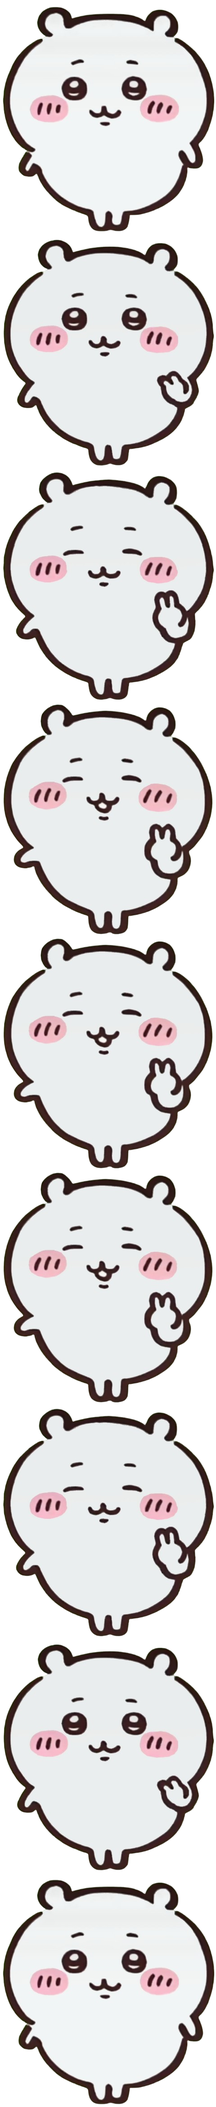
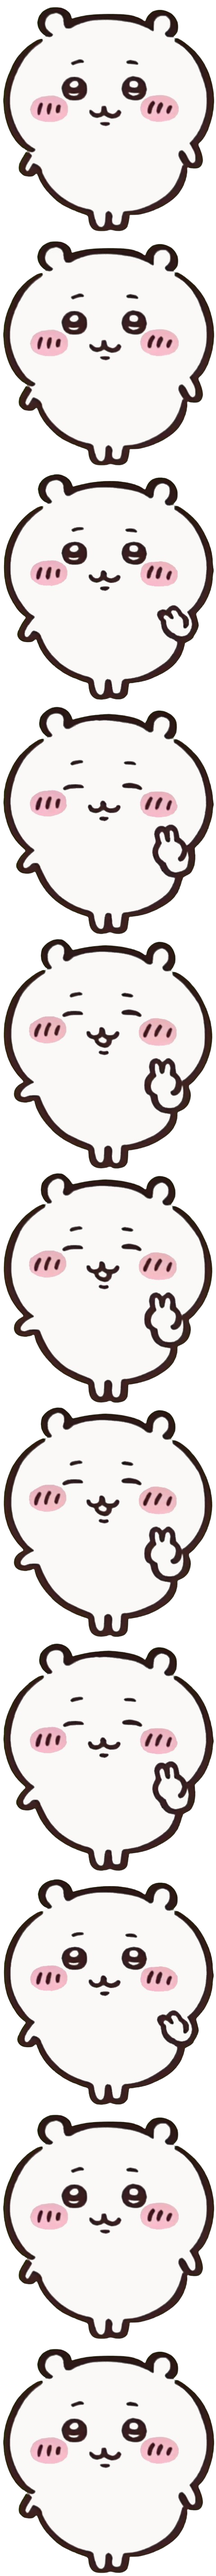
fix smile png color inconsistent

Changed region(s): [[0.0, 0.0, 1.0, 0.9934], [0.4062, 0.9934, 0.5938, 1.0]]

diff --git a/content.css b/content.css
@@ -29,7 +29,7 @@
     background-position-y: 0;
   }
   100% {
-    background-position-y: -486px;
+    background-position-y: -594px;
   }
 }
 
@@ -37,9 +37,9 @@
   width: 50px;
   height: 54px;
   background-repeat: no-repeat;
-  background-size: 50px 486px;
+  background-size: 50px 594px;
   background-position: 0 0;
-  animation: ssh-pet-smile 2s steps(9) infinite;
+  animation: ssh-pet-smile 2.5s steps(11) infinite;
   background-image: url("chrome-extension://__MSG_@@extension_id__/images/chiikawa_smile.png");
 }
 

diff --git a/switch.js b/switch.js
@@ -8,7 +8,7 @@ function createSwitches(ids) {
           <input id="${id}" class="look" type="checkbox" />
           <label for="${id}"></label>
         </div>
-        <div>
+        <div style="align-self: center;">
             <p style="font-size: 14px; font-weight: 500;">${displayName}</p>
         </div>
         </div>
